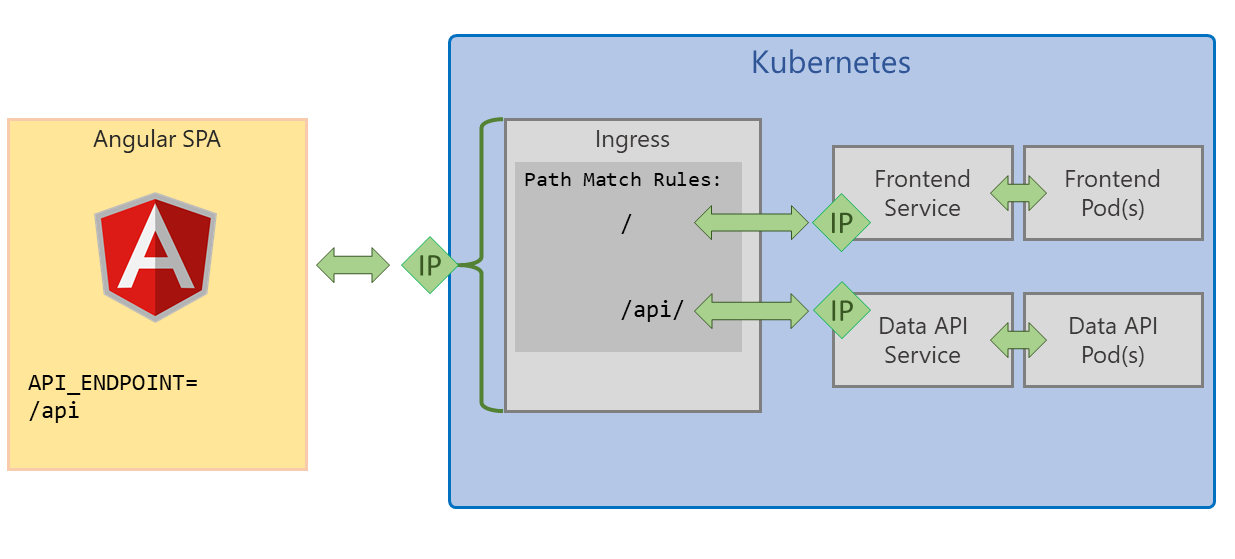
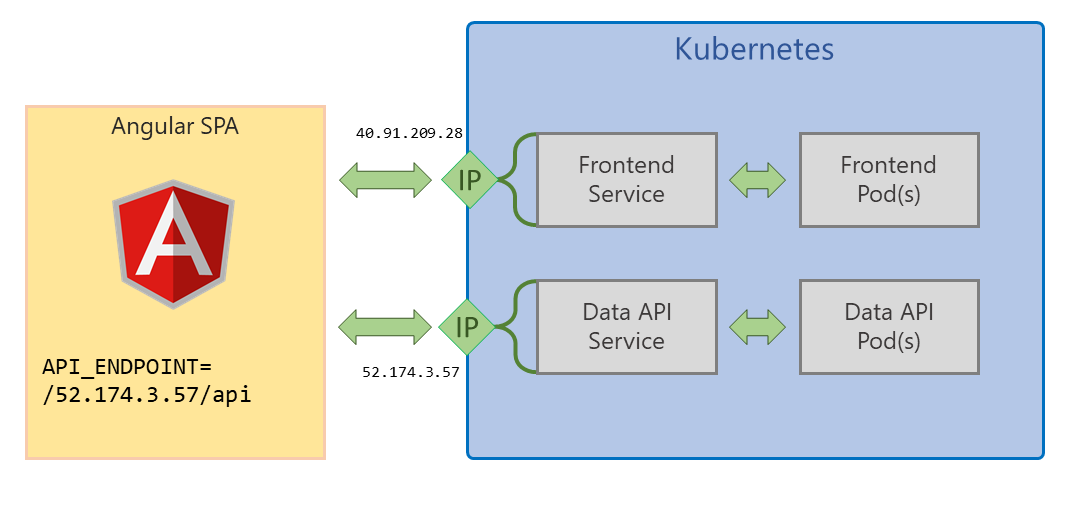
Kubernetes docs refresh

diff --git a/kubernetes/readme.md b/kubernetes/readme.md
@@ -20,15 +20,14 @@ This document is not intended to be a step by step guide for deploying Azure Con
 Once you have AKS deployed and are able to interact with it via `kubectl` you can start deploying Smilr to it
 
 ## Pre-requisites 
-Before starting deploying Smilr into Kubernetes you will need to Deploy Azure Container Registry (ACR), build the Docker images and push them up to ACR.  
+Before starting deploying Smilr into Kubernetes you will need to have an Azure Container Registry (ACR) populated with the Smilr container images. 
 
-Refer to the container guide for details
+Refer to the main container guide for details
 #### [:page_with_curl: Complete container guide](../docs/containers.md) 
 
 Notes on Smilr Kubernetes deployment:
 - When deploying to Kubernetes use of the `default` namespace is assumed.
-- Kuberenetes version 1.9 is assumed, if you are using 1.8 or older the API version in the deployment YAML may require changing e.g. to `apiVersion: apps/v1beta1`. Older versions have not been tested.
-- In most scenarios the default is to deploy MongoDB with a persistent volume claim to persist data in the database. This can result in a ~5 minute wait while this volume is created and bound to the MonogDB pod. Until this pod is ready the Smilr app will not be fully functional.
+- Kubernetes version 1.9+ is assumed, if you are using 1.8 or older the API version in the deployment YAML may require changing e.g. to `apiVersion: apps/v1beta1`. Older versions have not been tested.
 
 ## Option 1 - Helm (Easiest)
 [Helm](https://helm.sh/) is a package manager for Kubernetes, and a Helm Chart has been created to deploy Smilr. This means you can deploy Smilr with a single command. The chart is called simply 'smilr' and is in the helm subdirectory 
@@ -48,21 +47,52 @@ Full details of using the Helm chart are here:
 
 Deployment YAML files have been provided to directly stand up Smilr in your Kubernetes cluster. Two scenarios are provided, in both cases the deployment has been split into multiple files. 
 
-Before deployment of either scenario the two files `frontend.deploy.yaml` and `data-api.deploy.yaml` will require editing to point to your images and the relevant registry (i.e. ACR) & tag you are using. It is assumed you will be deploying to the default namespace
+Before deployment of either scenario the files `frontend.yaml` and `data-api.yaml` will require editing to point to your images and the relevant registry (i.e. ACR) & tag you are using. It is assumed you will be deploying to the default namespace
 
-### Scenario A - Using Ingress
-![kube1](../etc/kube-scenario-a.png){: .framed .padded}  
-**[Deployment Files for this scenario are in /kubernetes/using-ingress](./using-ingress/)** 
+### Scenario A - Basic
+![kube2](../etc/kube-scenario-a.png){: .framed .padded}  
+**[Deployment Files for this scenario are in /kubernetes/basic](./basic/)** 
 
-This method uses a Kubernetes ingress controller with a single entrypoint into your cluster, and rules to route traffic to the Smilr frontend and data-api as required. This simplifies config as the API endpoint is the same as where the Angular SPA is served from so it doesn't require any fiddling with IP addresses and DNS. 
+This method exposes the two Smilr services externally with their own external IP addresses, using the Kubernetes ***LoadBalancer*** service type. This has the advantage of not requiring any dependency on an Ingress controller but does require some manual editing of the YAML during deployment. 
 
-However it does require an ingress controller, which if you enabled "HTTP Application Routing" when creating AKS you will already have. If you don't have this add on, use Helm (e.g. `helm install stable/nginx-ingress`) but you will need to change the **kubernetes.io/ingress.class** in `ingress.yaml` to `nginx`
+Note. This scenario also doesn't persist the data for the MongoDB
 
-The steps for deployment of Smilr are:
+The steps for deployment are:
+```
+cd kubernetes/basic
+kubectl apply -f mongodb.yaml
+kubectl apply -f data-api.yaml
+kubectl get svc data-api-svc -w
+```
+Wait for `data-api-svc` to get an external IP address assigned, once it has, hit CTRL+C stop waiting. **Note.** This can take about 5-10 minutes in some cases, so be patient.  
+Copy the external IP address and edit `frontend.yaml` modify the `API_ENDPOINT` env URL to point to the data-api IP which was just assigned. You will need to have `/api` as part of the URL, e.g. **http://{data-api-svc-ip}/api**
+
+The steps for deployment of this scenario are:
+```
+kubectl apply -f frontend.yaml
+kubectl get svc frontend-svc -w
+```
+Wait for `frontend-svc` to get an external IP address assigned, once it has, hit CTRL+C stop waiting.  
+The frontend-svc external IP address is where you can access the Smilr app, e.g. by visiting **http://{frontend-svc-ip}/** in your browser
+
+### Scenario B - Advanced
+![kube1](../etc/kube-scenario-b.png){: .framed .padded}  
+**[Deployment Files for this scenario are in /kubernetes/advanced](./advanced/)** 
+
+This method uses a Kubernetes *Ingress* to provide a single entrypoint into your cluster, and URL path rules to route traffic to the Smilr frontend and data-api as required. This simplifies config as the API endpoint is the same as where the Angular SPA is served from so it doesn't require any fiddling with IP addresses and DNS. 
+
+This scenario also uses introduces persistence to MongoDB:
+- Uses a *StatefulSet* rather than a *Deployment* to run the MongoDB component
+- Uses a *Persistent Volume* mounted into the pod, to hold the MongoDB data 
+- This can result in a ~5 minute wait while this volume is created and bound to the MonogDB pod. Until this pod is ready the Smilr app will not be fully functional.
+
+This scenario does require an ingress controller running in your cluster, which if you enabled "HTTP Application Routing" when creating AKS you will already have. If you don't have this add on, use Helm (e.g. `helm install stable/nginx-ingress`) but you will need to change the **kubernetes.io/ingress.class** in `ingress.yaml` to `nginx`
+
+The steps for deployment of this scenario are:
 - Edit `ingress.yaml` and modify the DNS zone/domain to match the one created with your AKS cluster (in the MC resource group). You should only need to do this once
 - Run the following
 ```
-cd kubernetes/using-ingress
+cd kubernetes/advanced
 kubectl apply -f .
 ```
 - The app will be available at **`http://smilr.{guid}.{region}.aksapp.io/`**
@@ -70,32 +100,6 @@ kubectl apply -f .
 ```
 kubectl get svc -l app=addon-http-application-routing-nginx-ingress --all-namespaces -o jsonpath='{.items[0].status.loadBalancer.ingress[0].ip}{"\n"}'
 ```
-
-### Scenario B - Using LoadBalancer
-![kube2](../etc/kube-scenario-b.png){: .framed .padded}  
-**[Deployment Files for this scenario are in /kubernetes/using-lb](./using-lb/)** 
-
-This method exposes the two Smilr services externally with their own external IP addresses, using the Kubernetes ***LoadBalancer*** service type. This has the advantage of not requiring any dependency on an Ingress controller but does require some manual editing of the YAML during deployment. 
-
-The steps for deployment are:
-```
-cd kubernetes/using-lb
-kubectl apply -f mongodb.all.yaml
-kubectl apply -f data-api.deploy.yaml
-kubectl apply -f data-api.svc.yaml
-kubectl get svc data-api-svc -w
-```
-Wait for `data-api-svc` to get an external IP address assigned, once it has, hit CTRL+C stop waiting. **Note.** This can take about 5-10 minutes in some cases, so be patient.  
-Copy the external IP address and edit `frontend.deploy.yaml` modify the `API_ENDPOINT` env URL to point to the data-api IP which was just assigned. You will need to have `/api` as part of the URL, e.g. **http://{data-api-svc-ip}/api**
-
-Now run:
-```
-kubectl apply -f frontend.deploy.yaml
-kubectl apply -f frontend.svc.yaml
-kubectl get svc frontend-svc -w
-```
-Wait for `frontend-svc` to get an external IP address assigned, once it has, hit CTRL+C stop waiting.  
-The frontend-svc external IP address is where you can access the Smilr app, e.g. by visiting **http://{frontend-svc-ip}/** in your browser
 
 ---
 
